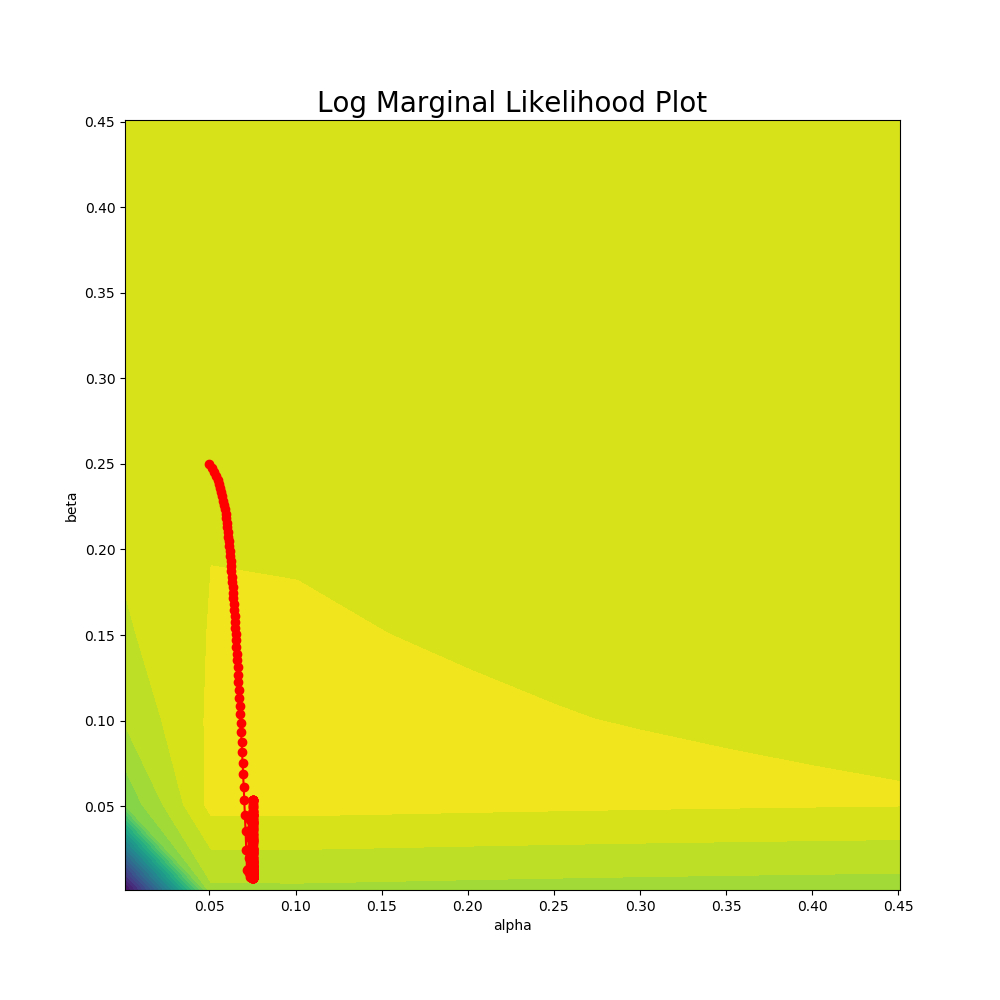
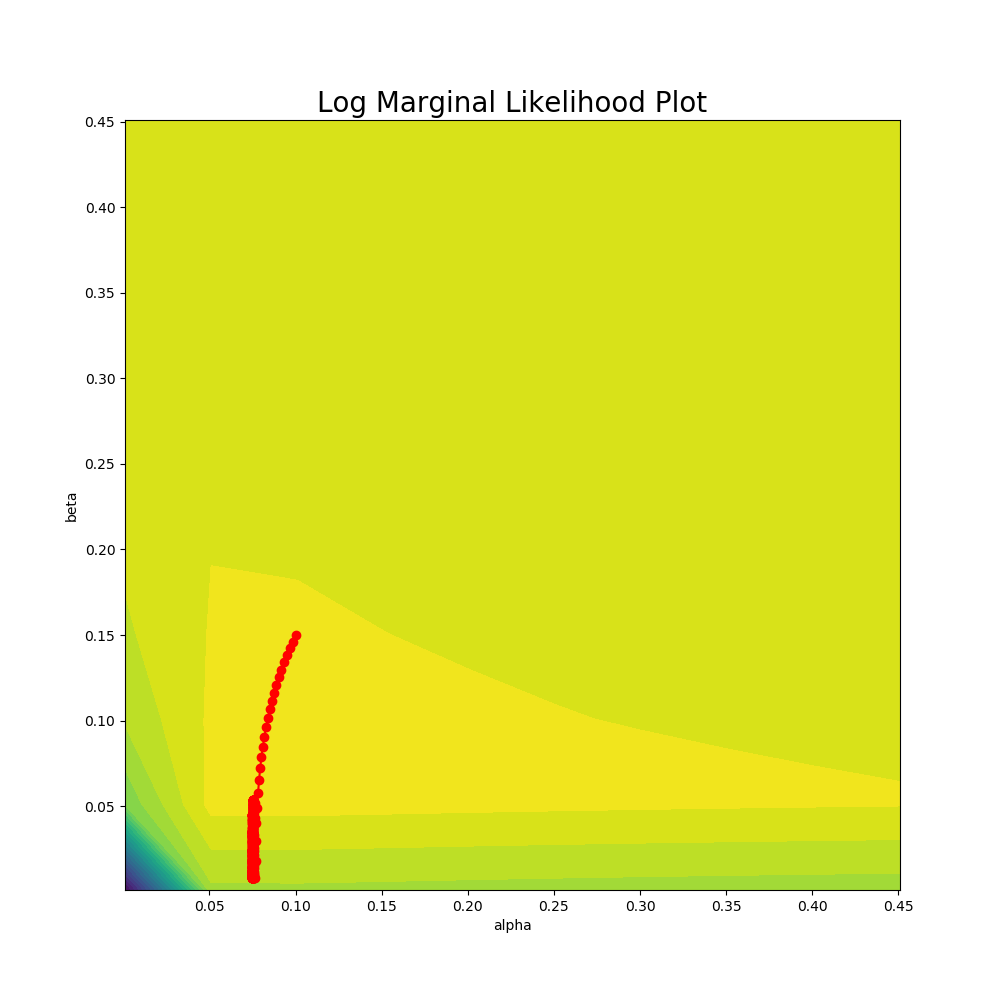
Update plot file to give graph of params instead of lml

Changed region(s): [[0.186, 0.465, 0.279, 0.868], [0.279, 0.62, 0.31, 0.682]]

diff --git a/trigonometric_grad_descent.py b/trigonometric_grad_descent.py
@@ -11,13 +11,13 @@ def trigonometric_design_matrix(K, x):
         for j in range(1, K+1):
             phi[i][(2*j)-1] = np.sin(2*np.pi*j*x[i])
             phi[i][2*j] = np.cos(2*np.pi*j*x[i])
-    
+
     return phi
 
 def gradient_descent(step_size, Phi, Y_values):
     start_value = [0.1, 0.15]
     x_i = start_value
-    max_iterations = 300
+    max_iterations = 500
     iteration = 0
 
     prev_step_size1 = 1
@@ -32,7 +32,7 @@ def gradient_descent(step_size, Phi, Y_values):
 
         steps = np.concatenate((steps, np.array([x_i])), axis=0)
         iteration += 1
-        
+
     return [steps, iteration, start_value]
 
 def plot_contour_with_grad_descent(K, step_size):
@@ -65,7 +65,7 @@ def plot_contour_with_grad_descent(K, step_size):
     # print(iteration)
     print(steps[0])
     print("alpha = {0}, beta = {1}".format(steps[len(steps)-1, 0], steps[len(steps)-1, 1]))
-    
+
     # Contour Plot of F2
     fig = plt.figure(figsize=(10,10))
     ax = fig.add_subplot(1, 1, 1)
@@ -83,7 +83,7 @@ def plot_contour_with_grad_descent(K, step_size):
     maxes = "alpha = " + str(max_alpha) + ", beta = " + str(max_beta)
 
     result_to_write = [x_i, maxes]
-    textfilename = '/home/kendeas93/Desktop/496-bayesian-regression_kt3118/trig_lml' + str(K) + '.txt'
+    textfilename = '/homes/kt3118/Desktop/496-bayesian-regression_kt3118/trig_lml' + str(K) + '.txt'
     with open(textfilename, 'w+') as f:
         for i in range(len(result_to_write)):
             f.write("%s\n" % str(result_to_write[i]))
@@ -96,7 +96,7 @@ def plot_contour_with_grad_descent(K, step_size):
 
 # K, step size
 def main():
-    plot_contour_with_grad_descent(11, 0.0001)
+    plot_contour_with_grad_descent(6, 0.0001)
     pass
 # K_list = []
 # sigma_list = []

diff --git a/plot_params_orders.py b/plot_params_orders.py
@@ -8,7 +8,7 @@ def readFile():
 	read_lines = []
 	# textfilename = '/home/kendeas93/Desktop/496-bayesian-regression_kt3118/trig_lml' + str(K) + '.txt'
 	for j in range(11):
-		textfilename = '/home/kendeas93/Desktop/496-bayesian-regression_kt3118/trig_lml' + str(j) + '.txt'
+		textfilename = '/homes/kt3118/Desktop/496-bayesian-regression_kt3118/trig_lml' + str(j) + '.txt'
 		with open(textfilename, 'r') as f:
 		    f1 = f.readlines()
 		    for i in range(len(f1)):
@@ -39,23 +39,31 @@ def getMaxLML(max_params):
 
 	return maxLML_list
 
+def getMaxParams(max_params):
+	alphas, betas, order_of_basis = [], [], []
+	for i in range(11):
+		alpha = max_params[i][0]
+		beta = max_params[i][1]
+		alphas.append(alpha)
+		betas.append(beta)
+		order_of_basis.append(i)
+
+	return alphas, betas, order_of_basis
+
 def main():
 	max_params = readFile()
-	lml_max_values = getMaxLML(max_params)
+	alphas, betas, order_of_basis = getMaxParams(max_params)
 
 	# PLOTS
 	fig = plt.figure(figsize=(11,9))
 
-	order_of_basis = []
-	for i in range(11):
-	    order_of_basis.append(i)
-
-	plt.plot(order_of_basis, lml_max_values, 'r-')
+	plt.plot(order_of_basis, alphas, 'g-', order_of_basis, betas, 'b-')
+	plt.legend(["ML alpha", "ML beta"], loc='upper right')
 	plt.xlabel("Order of basis")
-	plt.ylabel("LML")
-	plt.title("Max LML against Order of Basis Functions")
+	plt.ylabel("Y")
+	plt.title("Parameters alpha, beta against Order of Basis Functions")
 
-	fig.savefig('lml_against_orders.png')
+	fig.savefig('params_against_orders.png')
 
 	plt.show()
 	pass
